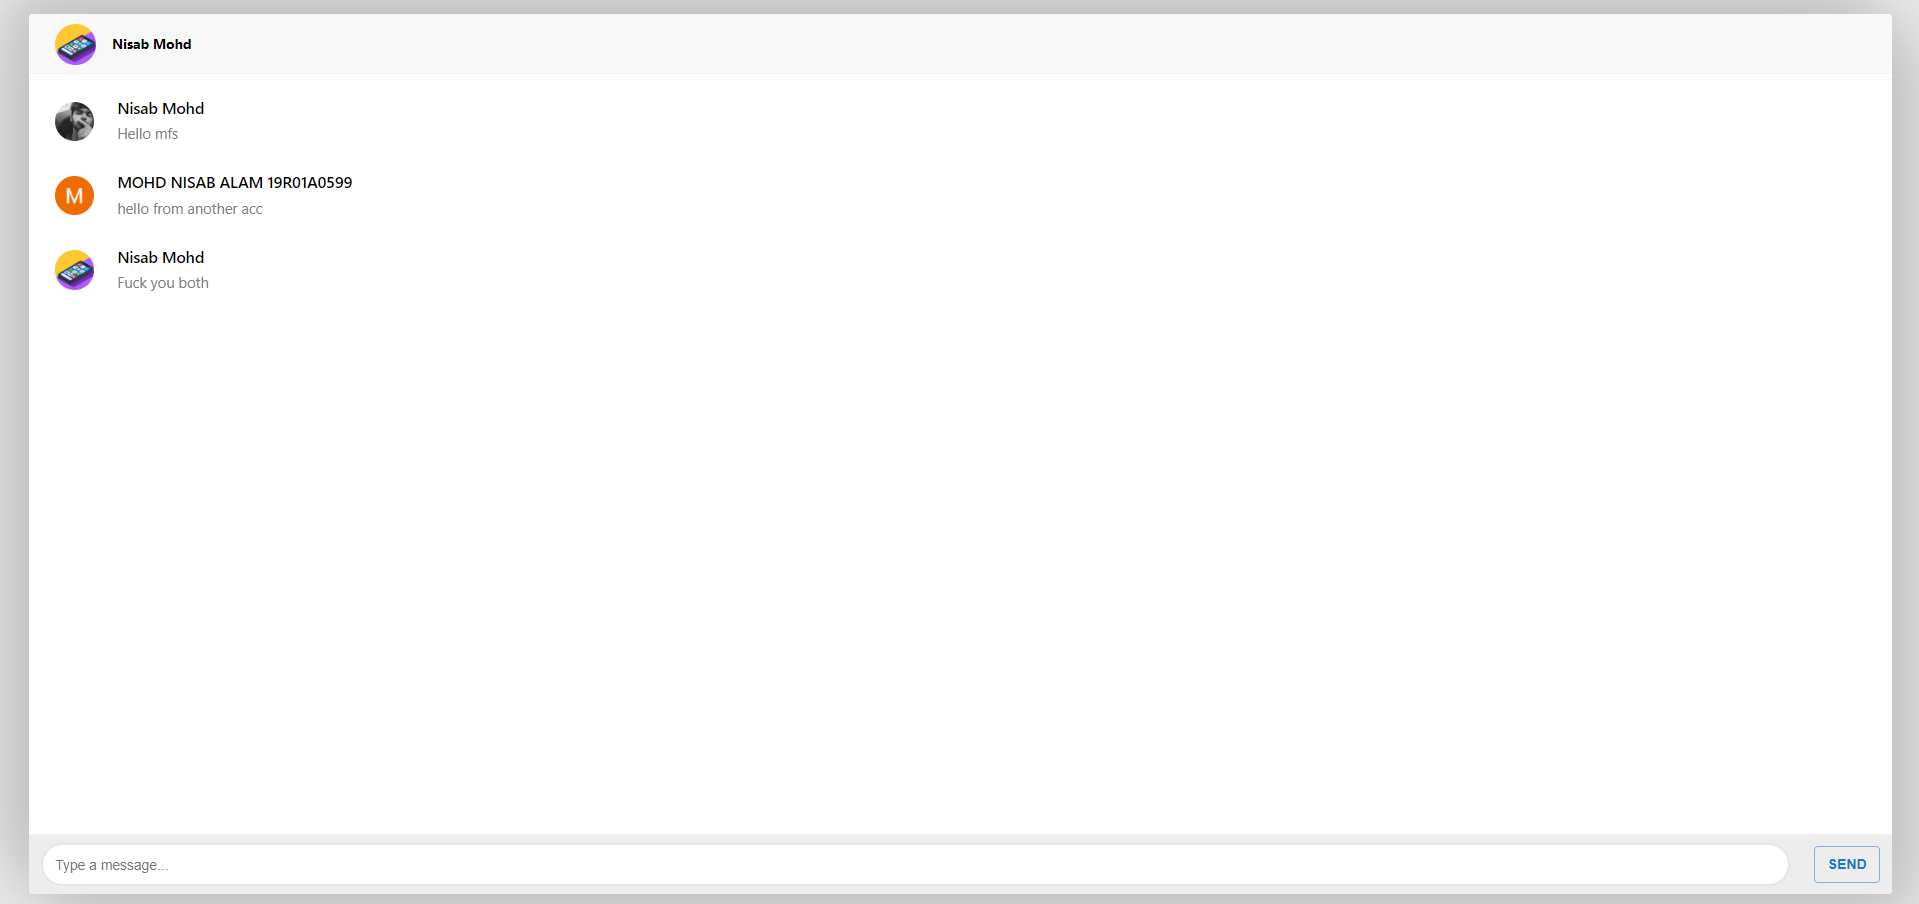
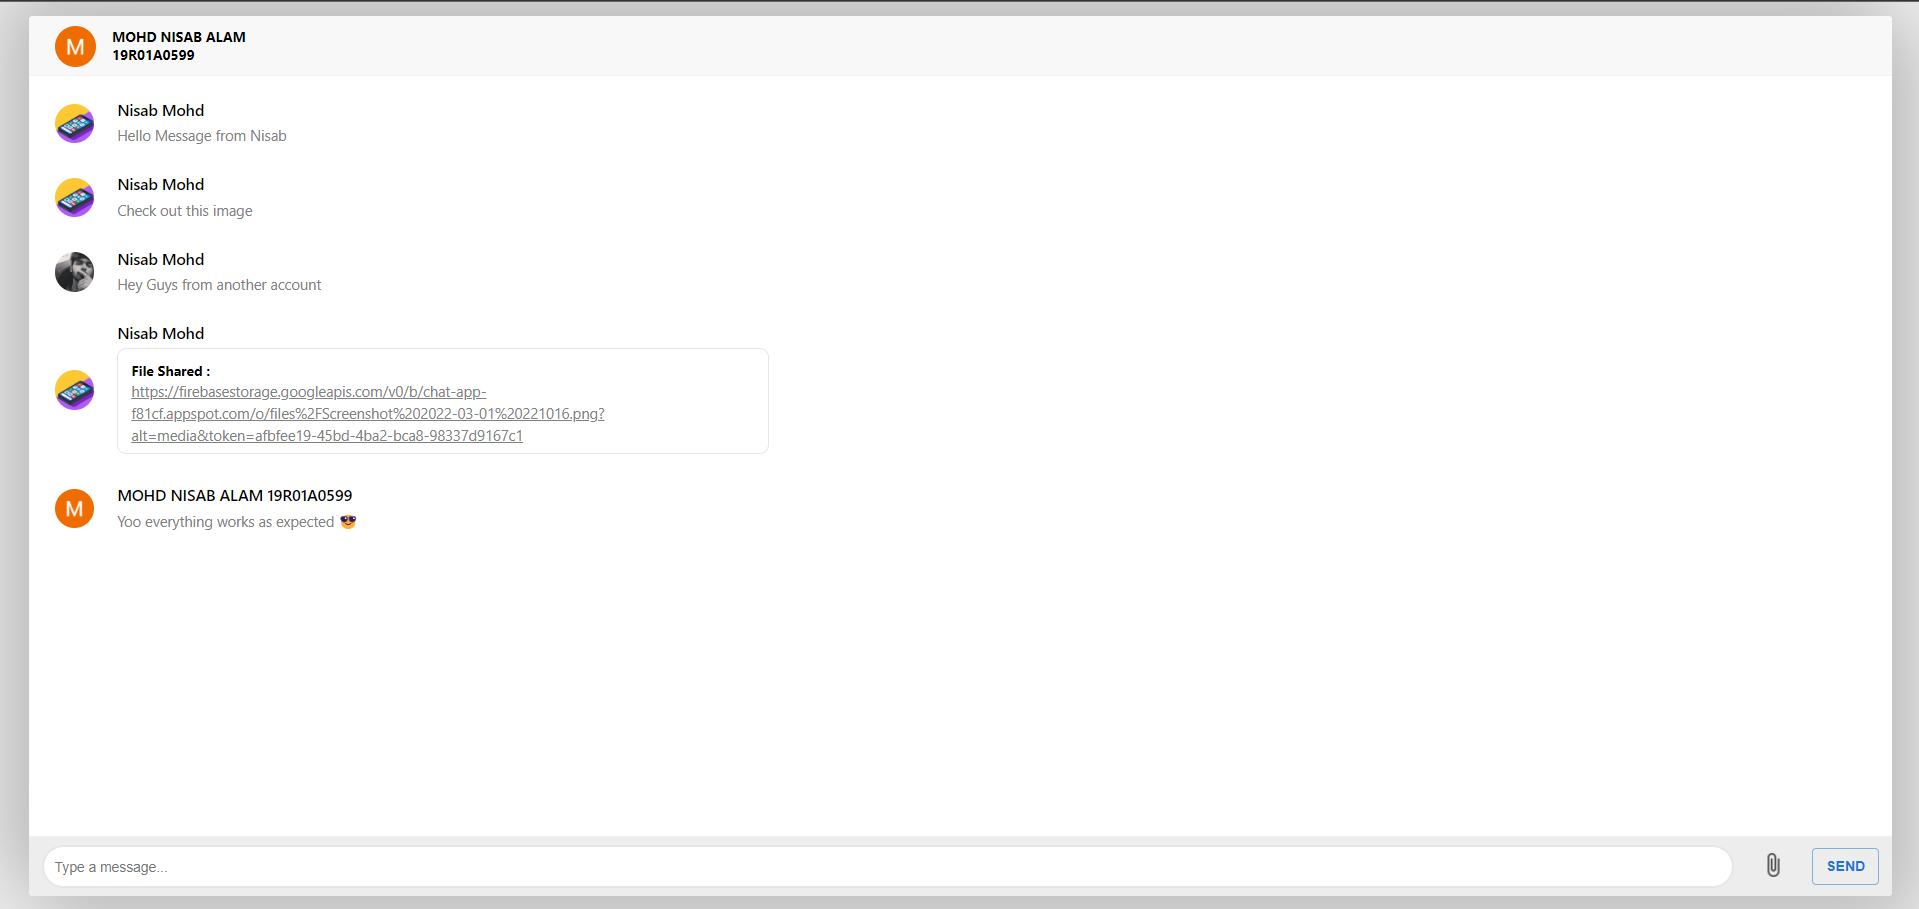
added file uplaod functionality

diff --git a/src/Chat.jsx b/src/Chat.jsx
@@ -1,13 +1,15 @@
 import React, { useEffect } from 'react';
 import './css/chatbox.css'
 import './css/chatpage.css'
+import toast, { Toaster } from 'react-hot-toast';
 import Button from '@mui/material/Button';
-// import attach from './ico/attach.png'
+import attach from './ico/attach.png'
 // import menu from './ico/menu.png'
 import { useState } from 'react';
-import { db } from './firebase';
+import { db, storage } from './firebase';
 import { addDoc, collection, onSnapshot, orderBy, query } from 'firebase/firestore';
 import { serverTimestamp } from 'firebase/firestore';
+import { ref, uploadBytesResumable, getDownloadURL } from "firebase/storage";
 function Chat(props) {
     const [input, setInput] = useState("")
     const [message, setMessage] = useState([])
@@ -19,14 +21,9 @@ function Chat(props) {
         () => {
             onSnapshot(q, (snapshot) => setMessage(snapshot.docs.map((doc) => doc.data())))
         }
-
         , [q]);
-    // useEffect(()=>{
-    //     updateScroll()
-    // },[message])
     async function sendMessage() {
         const msg = input;
-
         setInput("")
         await addDoc(collection(db, 'messages'), {
             name: props.name,
@@ -40,8 +37,46 @@ function Chat(props) {
     //     var element = document.getElementById("custom");
     //     element.scrollTop = element.scrollHeight;
     // }
+    function handlefiles(e) {
+        if (e.target.files[0].type === "image/png" || e.target.files[0].type === "application/pdf" || e.target.files[0].type === "image/jpg" || e.target.files[0].type === "image/jpeg") {
+            upload(e.target.files[0]);
+        }
+        else {
+            toast.error('Unsupported file format', {
+                duration: 1200,
+                position: 'top-center',
+            });
+        }
+    }
+    function upload(file) {
+        const storageRef = ref(storage, 'files/' + file.name);
+        const uploadTask = uploadBytesResumable(storageRef, file);
+        uploadTask.on('state_changed',
+            (snapshot) => {
+                const progress = (snapshot.bytesTransferred / snapshot.totalBytes) * 100;
+                console.log('Upload is ' + progress + '% done');
+            },
+            (error) => {
+            },
+            () => {
+                getDownloadURL(uploadTask.snapshot.ref).then((downloadURL) => {
+                    const msg = downloadURL;
+                    sendfile()
+                    async function sendfile() {
+                        await addDoc(collection(db, 'messages'), {
+                            name: props.name,
+                            text: msg,
+                            userimg: props.photo,
+                            timestamp: serverTimestamp()
+                        });
+                    }
+                });
+            }
+        );
+    }
     return (
         <div className='chatbox'>
+            <Toaster />
             <div className="chat__header">
                 <div className="siginmenu" style={{ display: 'flex', flexDirection: 'row', alignItems: 'center', marginLeft: '-9px' }}>
                     <div className="avatar__chat__header">
@@ -67,9 +102,23 @@ function Chat(props) {
                                 <img style={{ width: '38px', borderRadius: '100%' }} src={item.userimg} alt="" />
                                 <div className="messagebox">
                                     <h5 style={{ fontSize: '15px', fontWeight: '500' }}>{item.name}</h5>
-                                    <p className="chat__body__message">
-                                        {item.text}
-                                    </p>
+                                    {
+                                        item.text.includes('http') ? (
+                                            <div className="file" style={{ width: '50%', height: '95px', border: '1.5px solid rgb(230, 230, 230)', borderRadius: '9px', padding: '2px 12px', marginTop: '5px', backgroundColor: 'rgb(255,255,255)' }}>
+                                                <div className="headerfileformat" style={{ marginTop: '9px' }}>
+                                                    <h5>File Shared : </h5>
+                                                </div>
+                                                <a href={item.text} className="chat__body__message">
+                                                    {item.text}
+                                                </a>
+                                            </div>
+                                        ) : (
+                                            <p className="chat__body__message">
+                                                {item.text}
+                                            </p>
+                                        )
+                                    }
+
                                 </div>
                             </div>
                         )
@@ -78,9 +127,10 @@ function Chat(props) {
             </div>
             <div className="chat__footer">
                 <input value={input} type="text" placeholder='Type a message...' onChange={inputhandler} />
-                {/* <button onClick={() => { sendMessage() }} style={{ width: '79px', height: '35px', background: '#86bbec', color: 'black', border: 'none', outline: 'none', borderRadius: '11px', fontWeight: 'bold', cursor: 'pointer' }}>send</button> */}
-                <Button onClick={() => { sendMessage() }}  variant="outlined" style={{height:'35px'}} size="small">
-                    <p style={{fontWeight:'bold'}}>send</p>
+                <input type="file" name="" onChange={(e) => handlefiles(e)} id="filein" hidden />
+                <label htmlFor='filein' style={{ border: 'none', outline: 'none', cursor: 'pointer' }}><img style={{ width: '25px' }} src={attach} alt="" /></label>
+                <Button onClick={() => { sendMessage() }} variant="outlined" style={{ height: '35px' }} size="small">
+                    <p style={{ fontWeight: 'bold' }}>send</p>
                 </Button>
             </div>
         </div >

diff --git a/src/firebase.js b/src/firebase.js
@@ -1,6 +1,7 @@
 import { initializeApp } from "firebase/app";
 import { GoogleAuthProvider } from "firebase/auth";
 import { getFirestore } from "firebase/firestore";
+import { getStorage } from "firebase/storage";
 const firebaseConfig = {
   apiKey: "AIzaSyDNYUE4LU376cM3xII4_bwtJcQpkU2Cu18",
   authDomain: "chat-app-f81cf.firebaseapp.com",
@@ -12,4 +13,5 @@ const firebaseConfig = {
 const app = initializeApp(firebaseConfig);
 export const db=getFirestore()
 export default app;
+export const storage = getStorage(app);
 export const provider=new GoogleAuthProvider();

diff --git a/src/css/chatpage.css b/src/css/chatpage.css
@@ -66,17 +66,21 @@
     align-items: center;
 }
 .chat__footer input{
-    width: 93%;
+    width: 90%;
     background-color: white;
     height: 65%;
     outline: none;
     border: none;
     border-radius: 24px;
-    padding-left: 12px;
+    padding-left: 10px;
     border:2px solid rgb(230, 230, 230);
     color: rgb(109, 109, 109);
 }
-
+@media screen and (max-width:420px){
+    .chat__footer input{
+        width: 80%;
+    }
+}
 
 .messagebox{
     width: fit-content;
